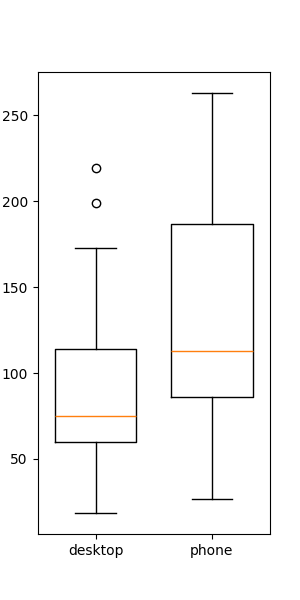
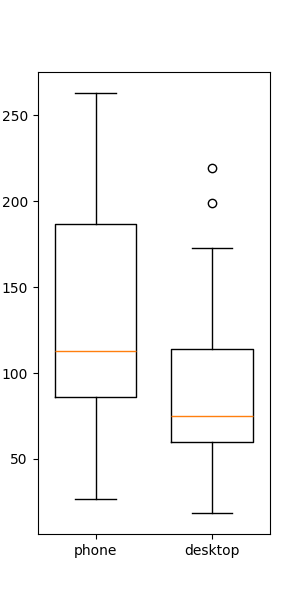
update order

diff --git a/compare.py b/compare.py
@@ -11,27 +11,27 @@ data_desktop = data_desktop.dropna()
 # %%
 data_phone = pd.read_csv("phone_prices.txt", header=None)
 
-#%%
+# %%
 data_desktop
-#%%
+# %%
 data_desktop = data_desktop.sort_values(by=0)
 data_desktop
-#%%
+# %%
 data_desktop.index
-#%%
+# %%
 data_desktop.index = list(range(len(data_desktop)))
 # %%
-index2=[len(data_desktop)/len(data_phone)*i for i in range(len(data_phone))]
+index2 = [len(data_desktop) / len(data_phone) * i for i in range(len(data_phone))]
 # %%
 data_phone = data_phone.sort_values(by=0)
 data_phone.index = index2
 # %%
 plt.figure(figsize=(8, 6))  # Optional: Adjust figure size
 
+plt.plot(data_phone, label="phone")
 
-plt.plot(data_desktop, linestyle="--", label="desktop")
+plt.plot(data_desktop, label="desktop")
 
-plt.plot(data_phone, linestyle="-", label="phone")
 plt.legend()
 
 plt.savefig("line_plot.png")
@@ -43,8 +43,8 @@ data_phone.describe()
 # %%
 plt.figure(figsize=(3, 6))
 plt.boxplot(
-    [data_desktop.iloc[:, 0], data_phone.iloc[:, 0]],
-    tick_labels=["desktop", "phone"],
+    [data_phone.iloc[:, 0], data_desktop.iloc[:, 0]],
+    tick_labels=["phone", "desktop"],
     widths=[0.7, 0.7],
 )
 plt.savefig("box_plot.png")
@@ -60,9 +60,11 @@ print(percent)
 # float(higher)
 # %%
 from pathlib import Path  # noqa: E402
+
 c = Path("README.md").read_text(encoding="utf8")
 # %%
 import re  # noqa: E402
-c2 = re.sub(r'[0-9]+%', percent, c)
+
+c2 = re.sub(r"[0-9]+%", percent, c)
 Path("README.md").write_text(c2)
 # %%
